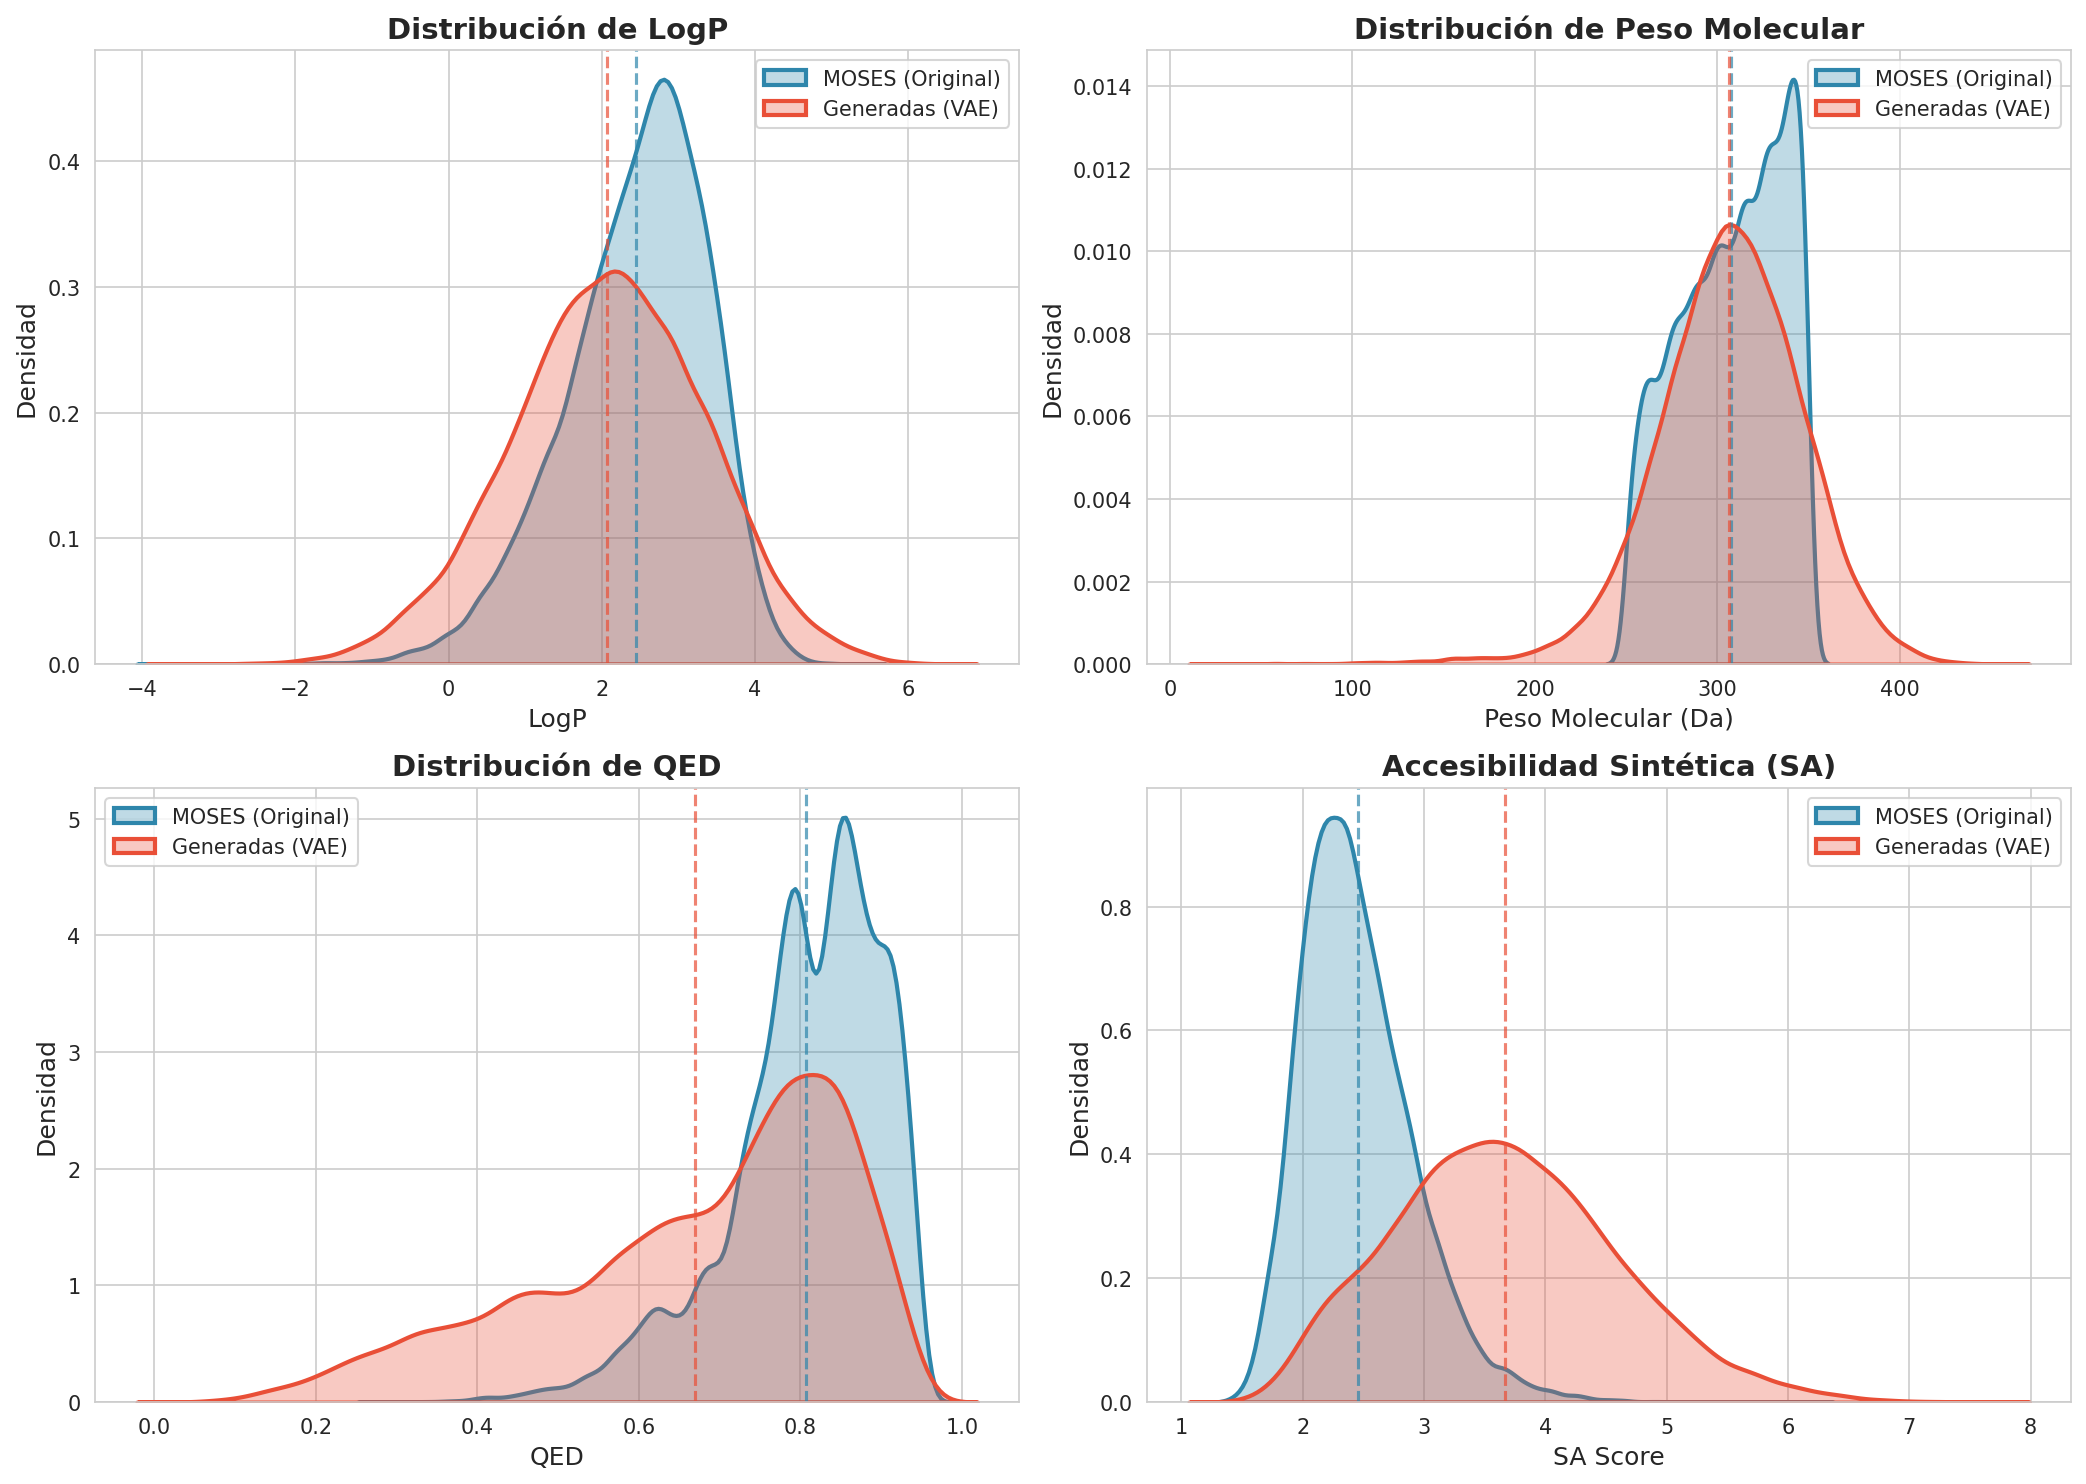
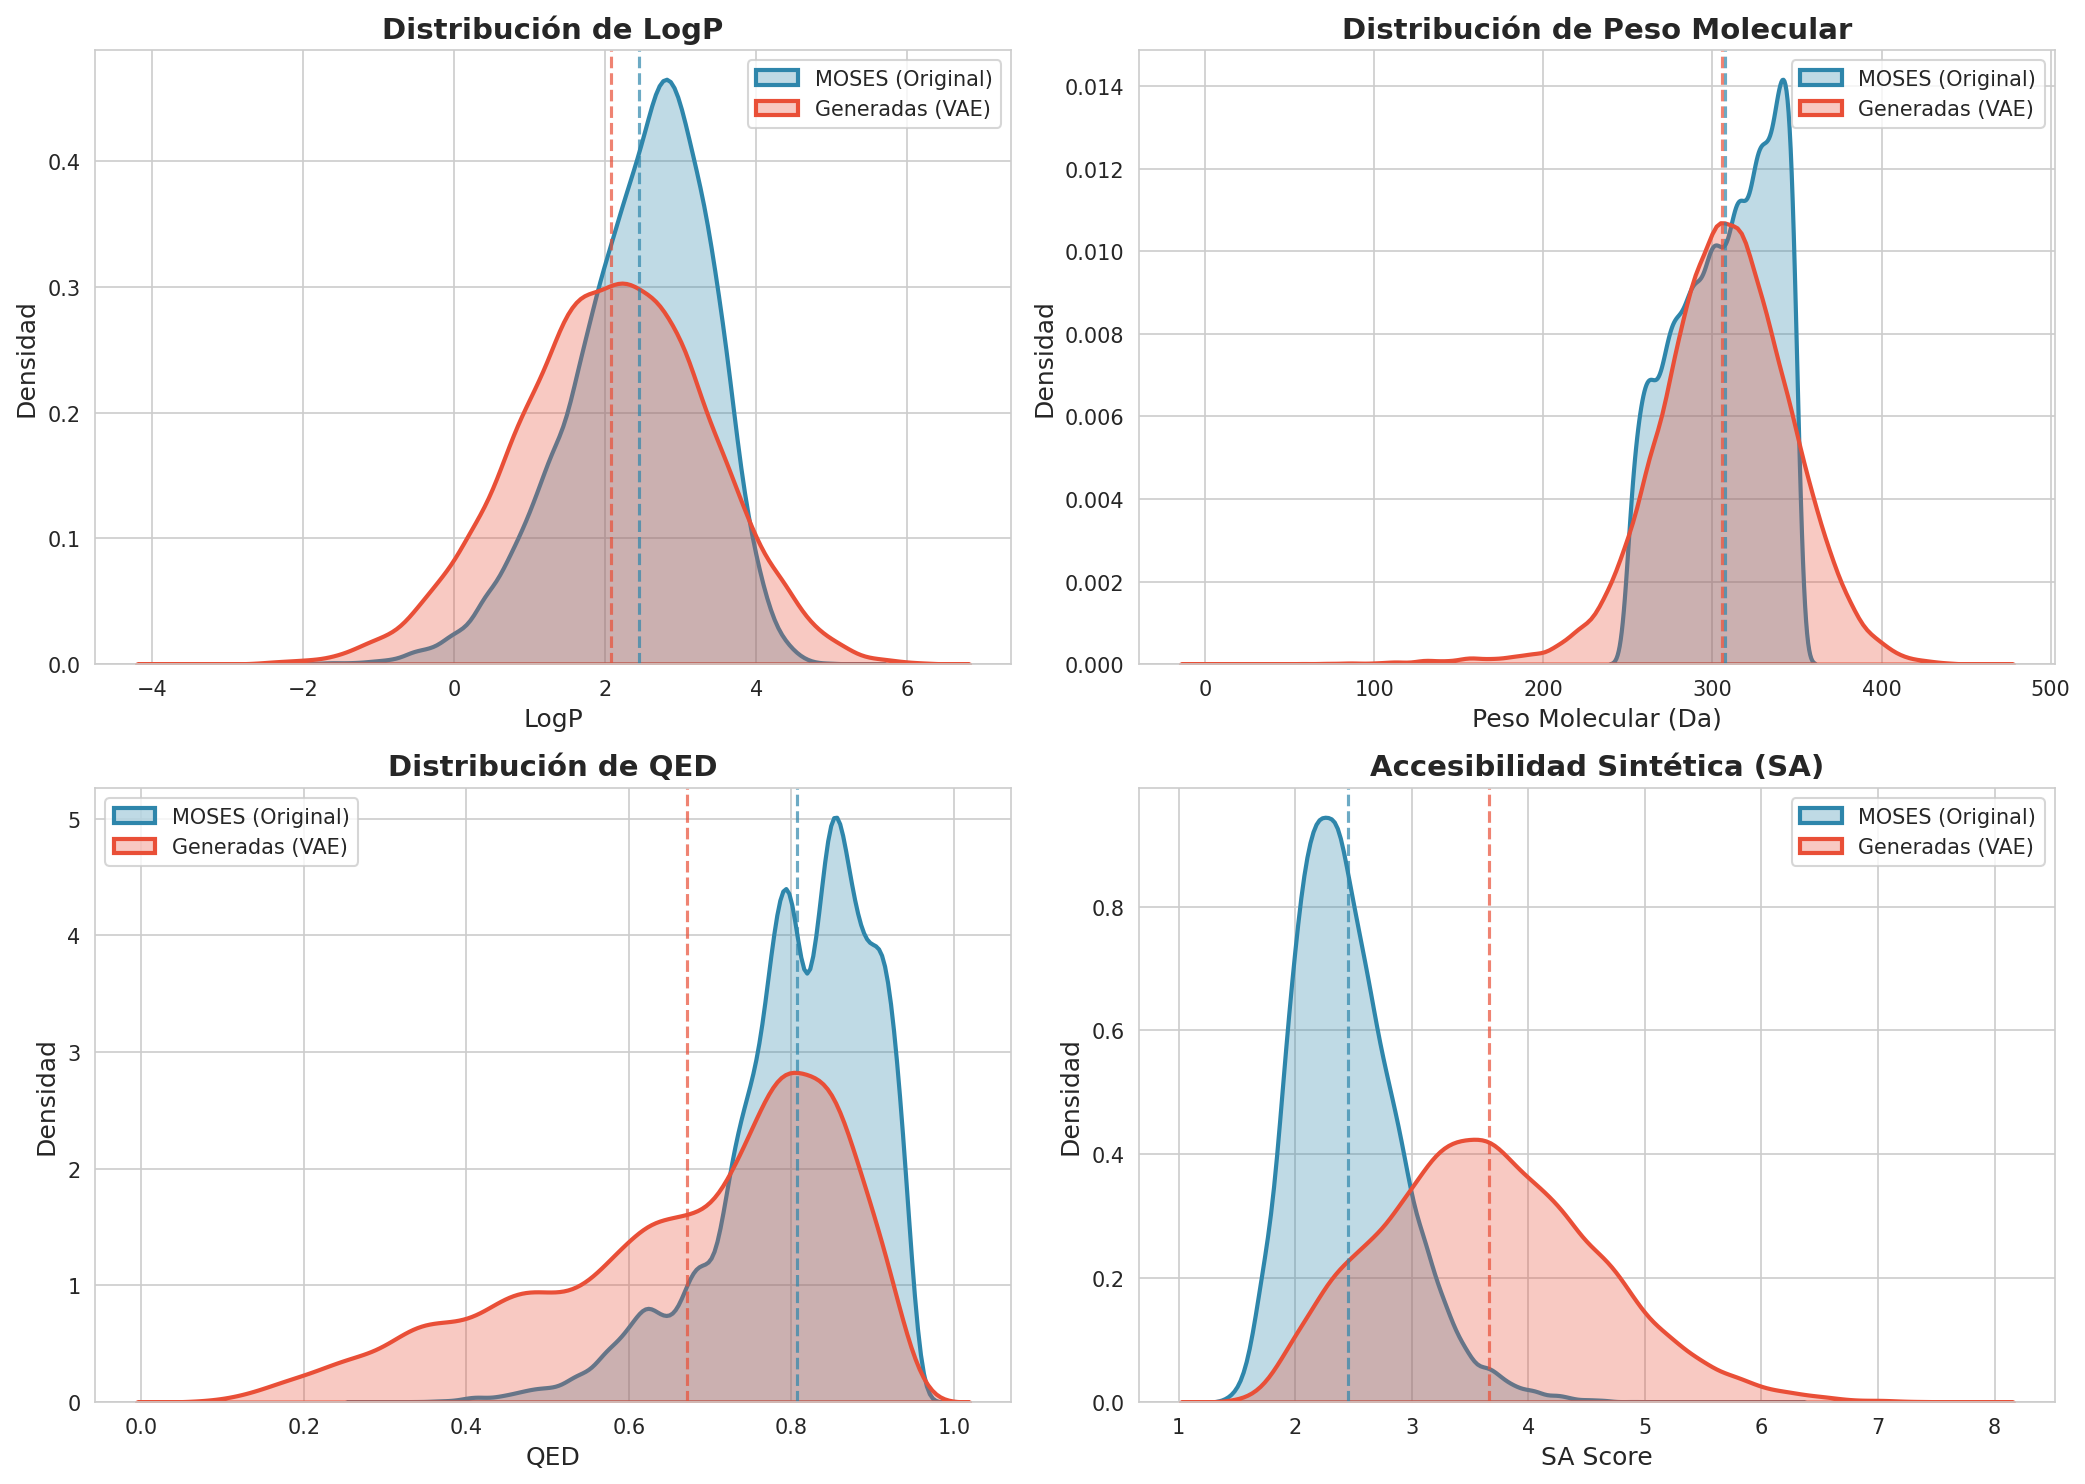
Refactor analysis script to improve property calculation and visualization; add KDE plots for comparative analysis of molecular properties

diff --git a/src/analisis_resultados.py b/src/analisis_resultados.py
@@ -1,22 +1,19 @@
-import torch
-import torch.nn.functional as F
-import selfies as sf
-import pandas as pd
-import numpy as np
-import matplotlib.pyplot as plt
-import seaborn as sns
-from rdkit import Chem
-from rdkit.Chem import Descriptors
-from rdkit.Chem import QED
-from rdkit.Chem import RDConfig
 import os
 import sys
+from typing import Dict, Sequence, Tuple
+
+import matplotlib.pyplot as plt
+import pandas as pd
+import seaborn as sns
+import selfies as sf
+import torch
+import torch.nn.functional as F
+from rdkit import Chem, RDLogger
+from rdkit.Chem import Descriptors, QED, RDConfig
 
 # Agregar la ruta de contribuciones de RDKit para SA_Score
 sys.path.append(os.path.join(RDConfig.RDContribDir, 'SA_Score'))
-import sascorer
-
-from rdkit import RDLogger
+import sascorer  # pyright: ignore[reportMissingImports]
 
 # Directorio raíz del proyecto (un nivel arriba de src/)
 ROOT_DIR = os.path.dirname(os.path.dirname(os.path.abspath(__file__)))
@@ -36,15 +33,29 @@ MAX_LEN = 100
 TEMP = 1.0
 DEVICE = torch.device("cuda" if torch.cuda.is_available() else "cpu")
 OUTPUT_PLOT = os.path.join(ROOT_DIR, "outputs", "comparacion_propiedades.png")
+SOURCE_ORIGINAL = "MOSES (Original)"
+SOURCE_GENERATED = "Generadas (VAE)"
+PLOT_COLORS = {SOURCE_ORIGINAL: "#2E86AB", SOURCE_GENERATED: "#E94F37"}
+
+PLOT_CONFIG: Sequence[Tuple[str, str, str]] = (
+    ("LogP", "LogP", "Distribución de LogP"),
+    ("MW", "Peso Molecular (Da)", "Distribución de Peso Molecular"),
+    ("QED", "QED", "Distribución de QED"),
+    ("SA", "SA Score", "Accesibilidad Sintética (SA)"),
+)
+
+STATS_CONFIG: Dict[str, Sequence[Tuple[str, str]]] = {
+    "LogP": (("Media", "mean"), ("Desv. Estándar", "std"), ("Mínimo", "min"), ("Máximo", "max")),
+    "MW": (("Media", "mean"), ("Desv. Estándar", "std"), ("Mínimo", "min"), ("Máximo", "max")),
+    "QED": (("Media", "mean"), ("Desv. Estándar", "std")),
+    "SA": (("Media", "mean"), ("Desv. Estándar", "std")),
+}
 
 
 def load_model_and_vocab():
     """Carga el modelo VAE entrenado y los vocabularios."""
-    if not torch.cuda.is_available():
-        checkpoint = torch.load(MODEL_PATH, map_location=torch.device('cpu'))
-    else:
-        checkpoint = torch.load(MODEL_PATH)
-        
+    checkpoint = torch.load(MODEL_PATH, map_location=DEVICE)
+
     vocab_stoi = checkpoint['vocab_stoi']
     vocab_itos = checkpoint['vocab_itos']
     hyper = checkpoint['hyperparams']
@@ -62,8 +73,11 @@ def load_model_and_vocab():
     return model, vocab_stoi, vocab_itos, hyper['latent']
 
 
-def decode_latent(model, z, vocab_stoi, vocab_itos, max_len=100, temp=1.0):
+def decode_latent(model, z, vocab_stoi, max_len=100, temp=1.0):
     """Decodifica vectores latentes a secuencias de índices."""
+    if temp <= 0:
+        raise ValueError("La temperatura de decodificación debe ser mayor a 0.")
+
     batch_size = z.size(0)
     h = model.decoder_input(z).unsqueeze(0)
     
@@ -120,7 +134,7 @@ def indices_to_smiles(indices_tensor, vocab_itos):
         try:
             sm = sf.decoder(selfies_str)
             smiles_list.append(sm)
-        except:
+        except Exception:
             smiles_list.append(None)
             
     return smiles_list
@@ -136,7 +150,7 @@ def generate_molecules(model, vocab_stoi, vocab_itos, latent_dim, num_molecules,
     for i in range(num_batches):
         current_batch = min(batch_size, num_molecules - i * batch_size)
         z = torch.randn(current_batch, latent_dim).to(DEVICE)
-        indices = decode_latent(model, z, vocab_stoi, vocab_itos, MAX_LEN, TEMP)
+        indices = decode_latent(model, z, vocab_stoi, MAX_LEN, TEMP)
         smiles = indices_to_smiles(indices, vocab_itos)
         all_smiles.extend(smiles)
         
@@ -151,47 +165,40 @@ def calculate_properties(smiles_list, source_name=""):
     Calcula Peso Molecular (MW), LogP, QED y SA para una lista de SMILES.
     Retorna un DataFrame con las propiedades.
     """
-    mw_list = []
-    logp_list = []
-    qed_list = []
-    sa_list = []
-    valid_smiles = []
-    
+    records = []
+
     for sm in smiles_list:
         if sm is None:
             continue
         mol = Chem.MolFromSmiles(sm)
         if mol is not None:
             try:
-                mw = Descriptors.MolWt(mol)
-                logp = Descriptors.MolLogP(mol)
-                qed_val = QED.qed(mol)
-                sa_val = sascorer.calculateScore(mol)
-                
-                mw_list.append(mw)
-                logp_list.append(logp)
-                qed_list.append(qed_val)
-                sa_list.append(sa_val)
-                valid_smiles.append(sm)
-            except:
+                records.append(
+                    {
+                        'SMILES': sm,
+                        'MW': Descriptors.MolWt(mol),
+                        'LogP': Descriptors.MolLogP(mol),
+                        'QED': QED.qed(mol),
+                        'SA': sascorer.calculateScore(mol),
+                        'Source': source_name,
+                    }
+                )
+            except Exception:
                 continue
-    
-    df = pd.DataFrame({
-        'SMILES': valid_smiles,
-        'MW': mw_list,
-        'LogP': logp_list,
-        'QED': qed_list,
-        'SA': sa_list,
-        'Source': source_name
-    })
-    
-    return df
+
+    return pd.DataFrame(records)
 
 
 def load_moses_dataset(path, sample_size=None):
     """Carga el dataset MOSES y extrae SMILES."""
     print(f"Cargando dataset MOSES desde {path}...")
     df = pd.read_csv(path)
+
+    required_cols = {'SMILES', 'SPLIT'}
+    missing_cols = required_cols - set(df.columns)
+    if missing_cols:
+        missing = ', '.join(sorted(missing_cols))
+        raise ValueError(f"Faltan columnas requeridas en MOSES: {missing}")
     
     # MOSES usa la columna "SMILES" y "SPLIT". Filtrar por train
     df_train = df[df['SPLIT'] == 'train'].copy()
@@ -206,116 +213,73 @@ def load_moses_dataset(path, sample_size=None):
     return df_train['SMILES'].tolist()
 
 
+def _plot_property_distribution(ax, df_combined, df_original, df_generated, prop, xlabel, title):
+    """Grafica la distribución KDE de una propiedad para ambos conjuntos."""
+    for source in (SOURCE_ORIGINAL, SOURCE_GENERATED):
+        data = df_combined[df_combined['Source'] == source][prop]
+        sns.kdeplot(
+            data=data,
+            ax=ax,
+            label=source,
+            color=PLOT_COLORS[source],
+            linewidth=2,
+            fill=True,
+            alpha=0.3,
+        )
+
+    ax.axvline(
+        x=df_original[prop].mean(),
+        color=PLOT_COLORS[SOURCE_ORIGINAL],
+        linestyle='--',
+        alpha=0.7,
+    )
+    ax.axvline(
+        x=df_generated[prop].mean(),
+        color=PLOT_COLORS[SOURCE_GENERATED],
+        linestyle='--',
+        alpha=0.7,
+    )
+    ax.set_xlabel(xlabel, fontsize=12)
+    ax.set_ylabel('Densidad', fontsize=12)
+    ax.set_title(title, fontsize=14, fontweight='bold')
+    ax.legend(fontsize=10)
+
+
 def plot_comparison(df_original, df_generated, output_path):
     """Genera gráficos KDE comparativos de MW, LogP, QED y SA."""
-    
+
     # Combinar dataframes
     df_combined = pd.concat([df_original, df_generated], ignore_index=True)
-    
+
     # Configurar estilo
     sns.set_style("whitegrid")
     fig, axes = plt.subplots(2, 2, figsize=(14, 10))
-    
-    # Colores
-    colors = {'MOSES (Original)': '#2E86AB', 'Generadas (VAE)': '#E94F37'}
-    
-    # --- Gráfico 1: Distribución de LogP ---
-    ax1 = axes[0, 0]
-    for source in ['MOSES (Original)', 'Generadas (VAE)']:
-        data = df_combined[df_combined['Source'] == source]['LogP']
-        sns.kdeplot(
-            data=data,
-            ax=ax1,
-            label=source,
-            color=colors[source],
-            linewidth=2,
-            fill=True,
-            alpha=0.3
-        )
-    
-    ax1.set_xlabel('LogP', fontsize=12)
-    ax1.set_ylabel('Densidad', fontsize=12)
-    ax1.set_title('Distribución de LogP', fontsize=14, fontweight='bold')
-    ax1.legend(fontsize=10)
-    ax1.axvline(x=df_original['LogP'].mean(), color=colors['MOSES (Original)'], 
-                linestyle='--', alpha=0.7, label=f"Media Original: {df_original['LogP'].mean():.2f}")
-    ax1.axvline(x=df_generated['LogP'].mean(), color=colors['Generadas (VAE)'], 
-                linestyle='--', alpha=0.7, label=f"Media Generadas: {df_generated['LogP'].mean():.2f}")
-    
-    # --- Gráfico 2: Distribución de Peso Molecular ---
-    ax2 = axes[0, 1]
-    for source in ['MOSES (Original)', 'Generadas (VAE)']:
-        data = df_combined[df_combined['Source'] == source]['MW']
-        sns.kdeplot(
-            data=data,
-            ax=ax2,
-            label=source,
-            color=colors[source],
-            linewidth=2,
-            fill=True,
-            alpha=0.3
-        )
-    
-    ax2.set_xlabel('Peso Molecular (Da)', fontsize=12)
-    ax2.set_ylabel('Densidad', fontsize=12)
-    ax2.set_title('Distribución de Peso Molecular', fontsize=14, fontweight='bold')
-    ax2.legend(fontsize=10)
-    ax2.axvline(x=df_original['MW'].mean(), color=colors['MOSES (Original)'], 
-                linestyle='--', alpha=0.7)
-    ax2.axvline(x=df_generated['MW'].mean(), color=colors['Generadas (VAE)'], 
-                linestyle='--', alpha=0.7)
 
-    # --- Gráfico 3: Distribución de QED ---
-    ax3 = axes[1, 0]
-    for source in ['MOSES (Original)', 'Generadas (VAE)']:
-        data = df_combined[df_combined['Source'] == source]['QED']
-        sns.kdeplot(
-            data=data,
-            ax=ax3,
-            label=source,
-            color=colors[source],
-            linewidth=2,
-            fill=True,
-            alpha=0.3
+    for ax, (prop, xlabel, title) in zip(axes.flatten(), PLOT_CONFIG):
+        _plot_property_distribution(
+            ax=ax,
+            df_combined=df_combined,
+            df_original=df_original,
+            df_generated=df_generated,
+            prop=prop,
+            xlabel=xlabel,
+            title=title,
         )
-    
-    ax3.set_xlabel('QED', fontsize=12)
-    ax3.set_ylabel('Densidad', fontsize=12)
-    ax3.set_title('Distribución de QED', fontsize=14, fontweight='bold')
-    ax3.legend(fontsize=10)
-    ax3.axvline(x=df_original['QED'].mean(), color=colors['MOSES (Original)'], 
-                linestyle='--', alpha=0.7)
-    ax3.axvline(x=df_generated['QED'].mean(), color=colors['Generadas (VAE)'], 
-                linestyle='--', alpha=0.7)
 
-    # --- Gráfico 4: Distribución de SA (Synthetic Accessibility) ---
-    ax4 = axes[1, 1]
-    for source in ['MOSES (Original)', 'Generadas (VAE)']:
-        data = df_combined[df_combined['Source'] == source]['SA']
-        sns.kdeplot(
-            data=data,
-            ax=ax4,
-            label=source,
-            color=colors[source],
-            linewidth=2,
-            fill=True,
-            alpha=0.3
-        )
-    
-    ax4.set_xlabel('SA Score', fontsize=12)
-    ax4.set_ylabel('Densidad', fontsize=12)
-    ax4.set_title('Accesibilidad Sintética (SA)', fontsize=14, fontweight='bold')
-    ax4.legend(fontsize=10)
-    ax4.axvline(x=df_original['SA'].mean(), color=colors['MOSES (Original)'], 
-                linestyle='--', alpha=0.7)
-    ax4.axvline(x=df_generated['SA'].mean(), color=colors['Generadas (VAE)'], 
-                linestyle='--', alpha=0.7)
-    
     plt.tight_layout()
     plt.savefig(output_path, dpi=150, bbox_inches='tight')
     plt.close()
-    
+
     print(f"\nGráfico guardado en: {output_path}")
+
+
+def _print_metric_statistics(df_original, df_generated, metric_name, title):
+    """Imprime estadísticas configuradas para una métrica."""
+    print(f"\n--- {title} ---")
+    for label, method_name in STATS_CONFIG[metric_name]:
+        original_value = getattr(df_original[metric_name], method_name)()
+        generated_value = getattr(df_generated[metric_name], method_name)()
+        print(f"{label:<25} {original_value:<20.3f} {generated_value:<20.3f}")
 
 
 def print_statistics(df_original, df_generated):
@@ -326,34 +290,19 @@ def print_statistics(df_original, df_generated):
     
     print(f"\n{'Métrica':<25} {'MOSES':<20} {'Generadas':<20}")
     print("-"*65)
-    
+
     # Número de moléculas válidas
     print(f"{'Moléculas válidas':<25} {len(df_original):<20} {len(df_generated):<20}")
-    
-    # LogP
-    print(f"\n--- LogP ---")
-    print(f"{'Media':<25} {df_original['LogP'].mean():<20.3f} {df_generated['LogP'].mean():<20.3f}")
-    print(f"{'Desv. Estándar':<25} {df_original['LogP'].std():<20.3f} {df_generated['LogP'].std():<20.3f}")
-    print(f"{'Mínimo':<25} {df_original['LogP'].min():<20.3f} {df_generated['LogP'].min():<20.3f}")
-    print(f"{'Máximo':<25} {df_original['LogP'].max():<20.3f} {df_generated['LogP'].max():<20.3f}")
-    
-    # MW
-    print(f"\n--- Peso Molecular (Da) ---")
-    print(f"{'Media':<25} {df_original['MW'].mean():<20.3f} {df_generated['MW'].mean():<20.3f}")
-    print(f"{'Desv. Estándar':<25} {df_original['MW'].std():<20.3f} {df_generated['MW'].std():<20.3f}")
-    print(f"{'Mínimo':<25} {df_original['MW'].min():<20.3f} {df_generated['MW'].min():<20.3f}")
-    print(f"{'Máximo':<25} {df_original['MW'].max():<20.3f} {df_generated['MW'].max():<20.3f}")
 
-    # QED
-    print(f"\n--- QED (Drug-likeness) ---")
-    print(f"{'Media':<25} {df_original['QED'].mean():<20.3f} {df_generated['QED'].mean():<20.3f}")
-    print(f"{'Desv. Estándar':<25} {df_original['QED'].std():<20.3f} {df_generated['QED'].std():<20.3f}")
-    
-    # SA
-    print(f"\n--- SA Score (Synthetic Accessibility) ---")
-    print(f"{'Media':<25} {df_original['SA'].mean():<20.3f} {df_generated['SA'].mean():<20.3f}")
-    print(f"{'Desv. Estándar':<25} {df_original['SA'].std():<20.3f} {df_generated['SA'].std():<20.3f}")
-    
+    metric_titles = {
+        'LogP': 'LogP',
+        'MW': 'Peso Molecular (Da)',
+        'QED': 'QED (Drug-likeness)',
+        'SA': 'SA Score (Synthetic Accessibility)',
+    }
+    for metric_name, title in metric_titles.items():
+        _print_metric_statistics(df_original, df_generated, metric_name, title)
+
     print("\n" + "="*60)
 
 
@@ -378,11 +327,11 @@ def main():
     # 4. Calcular propiedades
     print(f"\n[4/5] Calculando propiedades moleculares...")
     print("  Procesando moléculas originales...")
-    df_original = calculate_properties(original_smiles, source_name='MOSES (Original)')
+    df_original = calculate_properties(original_smiles, source_name=SOURCE_ORIGINAL)
     print(f"    -> {len(df_original)} moléculas válidas")
-    
+
     print("  Procesando moléculas generadas...")
-    df_generated = calculate_properties(generated_smiles, source_name='Generadas (VAE)')
+    df_generated = calculate_properties(generated_smiles, source_name=SOURCE_GENERATED)
     print(f"    -> {len(df_generated)} moléculas válidas")
     
     # Calcular tasa de validez
